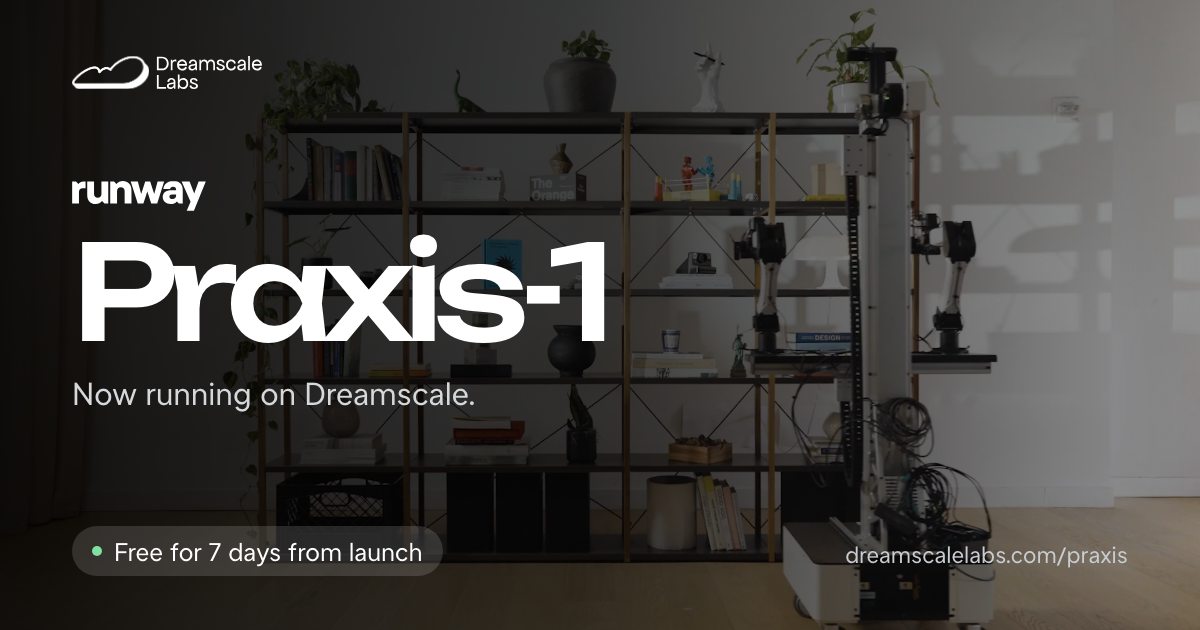
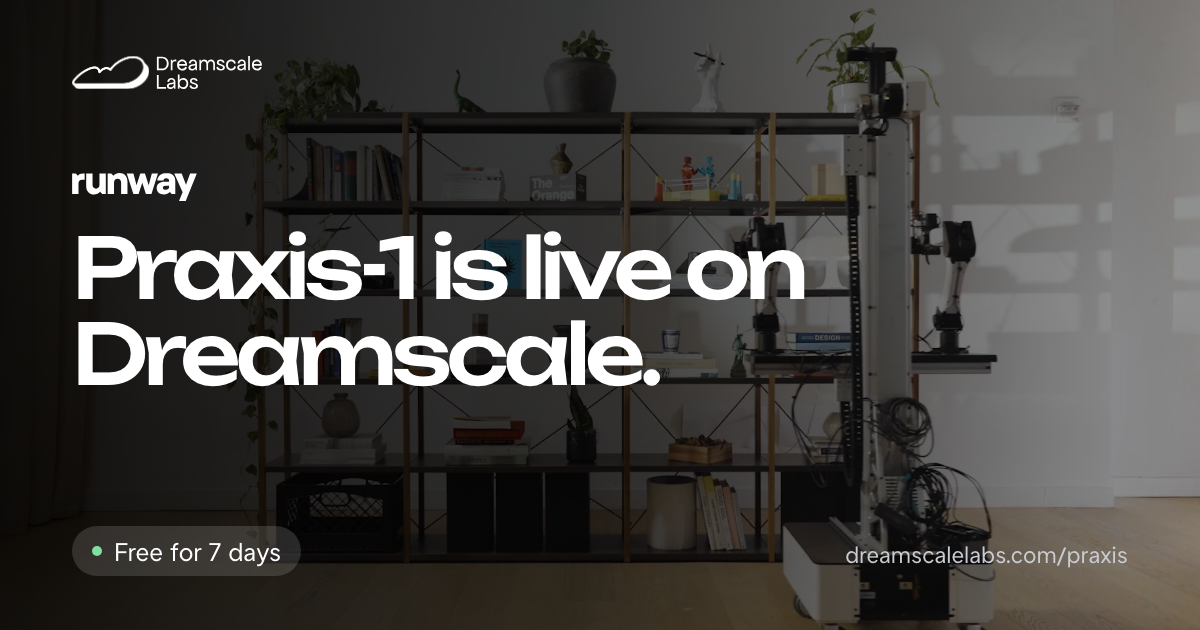
Praxis-1 free week: offer by /praxis's CTA, homepage announce bar, share image with the news (#21)
- /praxis: "Free for 7 days" beside "Run it free"; "$5 per robot-hour after" in the closing
  facts; the launch kit's allowed claims (both official checkpoints, Runway's own code with
  bit-for-bit outputs, no GPU / 54 GB download / kinematics); the Franka command; sign-up
  links tagged utm_campaign=praxis-1-launch; titles and descriptions say it's live.
- Share image: "Praxis-1 is live on Dreamscale." and "Free for 7 days".
- Homepage: the announce bar reads "Praxis-1 is live. Free through Nov 19. Try it" and
  links to /praxis (in place of the training line). The end date is only here.
- Tests: the offer, the tagged links, the bar, and the launch copy rules (no speed claims,
  nothing that reads as a partnership).

Changed region(s): [[0.0617, 0.3619, 0.6783, 0.6635], [0.2467, 0.8143, 0.37, 0.9349], [0.0617, 0.2714, 0.185, 0.3317]]

diff --git a/praxis/index.html b/praxis/index.html
@@ -5,7 +5,7 @@
 <meta name="viewport" content="width=device-width,initial-scale=1">
 <link rel="preload" href="/assets/fonts/Unbounded-Latin-Variable.woff2" as="font" type="font/woff2" crossorigin>
 <link rel="preload" href="/assets/fonts/Mluvka-Regular-web.woff2" as="font" type="font/woff2" crossorigin>
-<title>Praxis-1 on Dreamscale — run Runway's world action model on your robot</title>    <!-- Google Tag Manager -->
+<title>Praxis-1 is live on Dreamscale — free for 7 days</title>    <!-- Google Tag Manager -->
     <script>(function(w,d,s,l,i){w[l]=w[l]||[];w[l].push({'gtm.start':
     new Date().getTime(),event:'gtm.js'});var f=d.getElementsByTagName(s)[0],
     j=d.createElement(s),dl=l!='dataLayer'?'&l='+l:'';j.async=true;j.src=
@@ -19,20 +19,20 @@
     <link rel="apple-touch-icon" sizes="180x180" href="/apple-touch-icon.png">
     <link rel="manifest" href="/site.webmanifest">
     <meta name="theme-color" content="#ffffff">
-<meta name="description" content="Run Runway's Praxis-1 on your Bimanual YAM or Franka DROID, or in simulation, with one command. Free for 7 days from launch.">
+<meta name="description" content="Runway's open robot model, on your bimanual YAM or Franka in one command, or in simulation. Free for 7 days, then $5 per robot-hour.">
 <link rel="canonical" href="https://dreamscalelabs.com/praxis/">
-<meta property="og:title" content="Praxis-1, now running on Dreamscale">
-<meta property="og:description" content="Run Runway's world action model on your robot with one command. Free for 7 days from launch.">
+<meta property="og:title" content="Praxis-1 is live on Dreamscale">
+<meta property="og:description" content="Runway's open robot model, on your robot in one command. Free for 7 days.">
 <meta property="og:type" content="website">
 <meta property="og:url" content="https://dreamscalelabs.com/praxis/">
 <meta property="og:site_name" content="Dreamscale Labs">
 <meta property="og:image" content="https://www.dreamscalelabs.com/assets/social/praxis-og.png">
 <meta property="og:image:width" content="1200">
 <meta property="og:image:height" content="630">
-<meta property="og:image:alt" content="Praxis-1 by Runway, now running on Dreamscale. Free for 7 days from launch.">
+<meta property="og:image:alt" content="Praxis-1 is live on Dreamscale. Free for 7 days.">
 <meta name="twitter:card" content="summary_large_image">
 <meta name="twitter:site" content="@dreamscalelabs">
-<link rel="stylesheet" href="/assets/praxis/praxis.css?v=1">
+<link rel="stylesheet" href="/assets/praxis/praxis.css?v=2">
 <script defer src="/assets/analytics/posthog.js?v=1"></script>
 </head>
 <body>    <!-- Google Tag Manager (noscript) -->
@@ -55,11 +55,10 @@
 <div class="hero-body">
 <img class="runway" src="/assets/praxis/runway-wordmark-white.svg" width="334" height="75" alt="Runway">
 <h1>Praxis-1</h1>
-<p class="sub">Now running on Dreamscale.</p>
-<span class="free">Free for 7 days from launch</span>
+<p class="sub">Live on Dreamscale.</p>
 <div class="actions">
-<a class="btn btn-primary" href="https://app.dreamscalelabs.com/signin?callbackURL=/dashboard">Run it free <span aria-hidden="true">→</span></a>
-<a class="btn btn-ghost" href="https://docs.dreamscalelabs.com/">Read the docs</a>
+<a class="btn btn-primary" href="https://app.dreamscalelabs.com/signin?callbackURL=/dashboard&amp;utm_source=dreamscalelabs&amp;utm_medium=praxis-page&amp;utm_campaign=praxis-1-launch">Run it free <span aria-hidden="true">→</span></a>
+<span class="free">Free for 7 days</span>
 </div>
 </div>
 </section>
@@ -76,21 +75,23 @@
 </section>
 
 <section class="run" aria-labelledby="run-title">
-<h2 id="run-title">One command on your Bimanual YAM or Franka DROID.</h2>
+<h2 id="run-title">One command on your bimanual YAM or Franka.</h2>
+<p class="plain">Both official checkpoints, running Runway's own code: our outputs match theirs bit for bit. No GPU, no 54&#160;GB download, no kinematics to write.</p>
 <pre class="term"><span>$ </span>uv tool install dreamscale
 <span>$ </span>dreamscale login
 <span>$ </span>dreamscale run yam --model praxis-1-yam</pre>
-<p class="norobot">No robot? <code>dreamscale sim molmospaces --model praxis-1-droid</code></p>
+<p class="norobot">On a Franka: <code>dreamscale run franka --model praxis-1-droid</code></p>
+<p class="norobot">No robot? The same model in simulation: <code>dreamscale sim molmospaces --model praxis-1-droid</code></p>
 </section>
 
 <div class="wrap">
 <section class="close" aria-label="Pricing">
 <div class="facts">
-<div><strong>Free</strong><span>for 7 days from launch</span></div>
-<div><strong>27.2B</strong><span>open weights</span></div>
-<div><strong>$5 / hr</strong><span>per robot after that</span></div>
+<div><strong>Free</strong><span>for 7 days</span></div>
+<div><strong>$5</strong><span>per robot-hour after</span></div>
+<div><strong>27.2B</strong><span>parameters, open weights</span></div>
 </div>
-<a class="btn btn-primary" href="https://app.dreamscalelabs.com/signin?callbackURL=/dashboard">Run Praxis-1 <span aria-hidden="true">→</span></a>
+<a class="btn btn-primary" href="https://app.dreamscalelabs.com/signin?callbackURL=/dashboard&amp;utm_source=dreamscalelabs&amp;utm_medium=praxis-page&amp;utm_campaign=praxis-1-launch">Run Praxis-1 free <span aria-hidden="true">→</span></a>
 </section>
 <footer><span>Dreamscale Labs</span><span>Praxis-1 is made by Runway</span></footer>
 </div>

diff --git a/assets/praxis/praxis.css b/assets/praxis/praxis.css
@@ -1,4 +1,5 @@
-/* /praxis: Praxis-1 on Dreamscale (Chris's P2, 2026-11-11). Black, the launch video full screen. */
+/* /praxis: Praxis-1 on Dreamscale (Chris's P2, 2026-11-11). Black, the launch video full screen.
+   The free week shows in the hero (.free) and the closing facts; take both off on day 7. */
 @font-face { font-family: DSL; src: url("/assets/fonts/Mluvka-Regular-web.woff2") format("woff2"); font-display: block; }
 @font-face { font-family: Unbounded; src: url("/assets/fonts/Unbounded-Latin-Variable.woff2") format("woff2"); font-weight: 200 900; font-display: block; }
 
@@ -21,12 +22,11 @@ a:focus-visible, button:focus-visible { outline: 3px solid #8fb0ff; outline-offs
 .runway { height: 26px; width: auto; }
 h1 { margin: 0; font-family: Unbounded, DSL, sans-serif; font-size: clamp(76px, 12vw, 168px); font-weight: 500; letter-spacing: -.07em; line-height: .9; }
 .sub { margin: 0; font-size: 22px; color: #c9ccd0; }
-.free { display: inline-flex; align-items: center; gap: 10px; padding: 8px 16px; border-radius: 999px; background: rgba(255,255,255,.12); backdrop-filter: blur(8px); font-size: 15px; color: #fff; }
+.free { display: inline-flex; align-items: center; gap: 10px; padding: 12px 18px; border-radius: 999px; background: rgba(255,255,255,.12); backdrop-filter: blur(8px); font-size: 16px; color: #fff; }
 .free::before { content: ""; width: 7px; height: 7px; border-radius: 50%; background: #7fe0a0; }
-.actions { display: flex; gap: 14px; flex-wrap: wrap; justify-content: center; padding-top: 4px; }
+.actions { display: flex; align-items: center; gap: 16px; flex-wrap: wrap; justify-content: center; padding-top: 4px; }
 .btn { display: inline-flex; align-items: center; gap: 12px; padding: 18px 30px; border-radius: 6px; font-size: 17px; }
 .btn-primary { background: #fff; color: #000; }
-.btn-ghost { box-shadow: inset 0 0 0 1px rgba(255,255,255,.35); }
 
 .wrap { max-width: 1240px; margin: 0 auto; padding: 0 48px; }
 .stills { display: grid; grid-template-columns: repeat(4, minmax(0, 1fr)); gap: 16px; padding-top: 96px; }
@@ -38,6 +38,7 @@ h1 { margin: 0; font-family: Unbounded, DSL, sans-serif; font-size: clamp(76px, 
 h2 { margin: 0; font-family: Unbounded, DSL, sans-serif; font-size: 46px; font-weight: 450; letter-spacing: -.05em; line-height: 1.12; }
 .term { width: 100%; margin: 0; padding: 26px 28px; border-radius: 8px; background: #111315; box-shadow: inset 0 0 0 1px #24272a; text-align: left; font: 16px/2 ui-monospace, SFMono-Regular, Menlo, monospace; color: #e8eaec; overflow-x: auto; }
 .term span { color: #5f6468; user-select: none; }
+.plain { margin: -12px 0 0; max-width: 620px; font-size: 18px; line-height: 1.6; color: #b7bbbf; }
 .norobot { margin: 0; font-size: 16px; color: #8d9296; }
 .norobot code { font: 15px ui-monospace, SFMono-Regular, Menlo, monospace; color: #c9ccd0; }
 
@@ -53,7 +54,8 @@ footer { padding: 24px 0 40px; display: flex; justify-content: space-between; ga
   .hero nav { gap: 18px; font-size: 14px; }
   .hero-body { bottom: 56px; gap: 22px; }
   .sub { font-size: 18px; }
-  .actions, .btn { width: 100%; justify-content: center; }
+  .actions, .actions .btn { width: 100%; justify-content: center; }
+  .plain { font-size: 16px; }
   .wrap { padding: 0 22px; }
   .stills { grid-template-columns: repeat(2, minmax(0, 1fr)); padding-top: 64px; }
   .run { padding: 80px 22px; }

diff --git a/assets/social/praxis-og.html b/assets/social/praxis-og.html
@@ -14,9 +14,8 @@ html, body { margin: 0; width: 1200px; height: 630px; overflow: hidden; backgrou
 .card { position: relative; width: 1200px; height: 630px; padding: 56px 72px; background: #000 url('/assets/praxis/hero-poster.webp') center 40% / cover no-repeat; isolation: isolate; }
 .card::before { content: ''; position: absolute; inset: 0; z-index: -1; background: linear-gradient(90deg, rgba(0,0,0,.9) 0%, rgba(0,0,0,.72) 48%, rgba(0,0,0,.25) 100%); }
 .wordmark { display: block; width: 190px; height: auto; filter: invert(1); mix-blend-mode: screen; }
-.runway { display: block; height: 30px; width: auto; margin: 92px 0 22px; }
-h1 { font-family: Unbounded, sans-serif; font-size: 132px; font-weight: 500; letter-spacing: -.07em; line-height: .9; margin: 0 0 22px; }
-p { font-family: DSL, Arial, sans-serif; font-size: 30px; margin: 0; color: #d6d9dc; }
+.runway { display: block; height: 28px; width: auto; margin: 84px 0 24px; }
+h1 { font-family: Unbounded, sans-serif; font-size: 84px; font-weight: 500; letter-spacing: -.065em; line-height: 1.02; margin: 0; max-width: 820px; }
 .free { position: absolute; left: 72px; bottom: 54px; display: inline-flex; align-items: center; gap: 12px; padding: 10px 20px; border-radius: 999px; background: rgba(255,255,255,.14); font-family: DSL, Arial, sans-serif; font-size: 24px; }
 .free::before { content: ''; width: 10px; height: 10px; border-radius: 50%; background: #7fe0a0; }
 .domain { position: absolute; right: 72px; bottom: 62px; font-family: DSL, Arial, sans-serif; font-size: 22px; color: #c9ccd0; }
@@ -26,9 +25,8 @@ p { font-family: DSL, Arial, sans-serif; font-size: 30px; margin: 0; color: #d6d
 <div class="card">
 <img class="wordmark" src="/assets/landing/brand.svg" alt="Dreamscale Labs">
 <img class="runway" src="/assets/praxis/runway-wordmark-white.svg" alt="Runway">
-<h1>Praxis-1</h1>
-<p>Now running on Dreamscale.</p>
-<div class="free">Free for 7 days from launch</div>
+<h1>Praxis-1 is live on Dreamscale.</h1>
+<div class="free">Free for 7 days</div>
 <div class="domain">dreamscalelabs.com/praxis</div>
 </div>
 </body>

diff --git a/index.html b/index.html
@@ -50,7 +50,7 @@
 </noscript>
     <!-- End Google Tag Manager (noscript) -->
 <aside class="announce" aria-label="Announcement">
-<p><strong>Training is now live!</strong> Fine-tune robot models in just 3 clicks. <a class="announce-link" href="https://app.dreamscalelabs.com/signin?callbackURL=/dashboard/training">Start now <svg class="announce-icon" viewBox="0 0 16 16" width="16" height="16" aria-hidden="true"><path d="M3 8h9.5M8.5 3.5 13 8l-4.5 4.5" fill="none" stroke="currentColor" stroke-width="1.8" stroke-linecap="round" stroke-linejoin="round"/></svg></a></p>
+<p><strong>Praxis-1 is live.</strong> Free through Nov 19. <a class="announce-link" href="/praxis/">Try it <svg class="announce-icon" viewBox="0 0 16 16" width="16" height="16" aria-hidden="true"><path d="M3 8h9.5M8.5 3.5 13 8l-4.5 4.5" fill="none" stroke="currentColor" stroke-width="1.8" stroke-linecap="round" stroke-linejoin="round"/></svg></a></p>
 </aside>
 <div class="wrap">
 <header>
